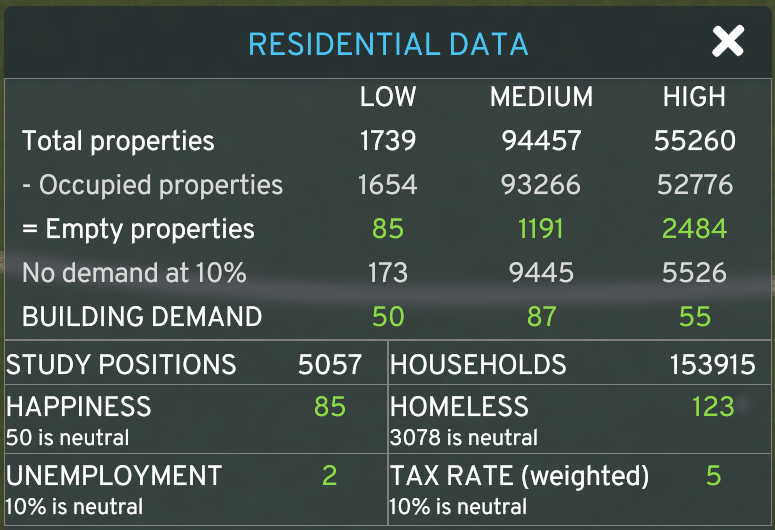
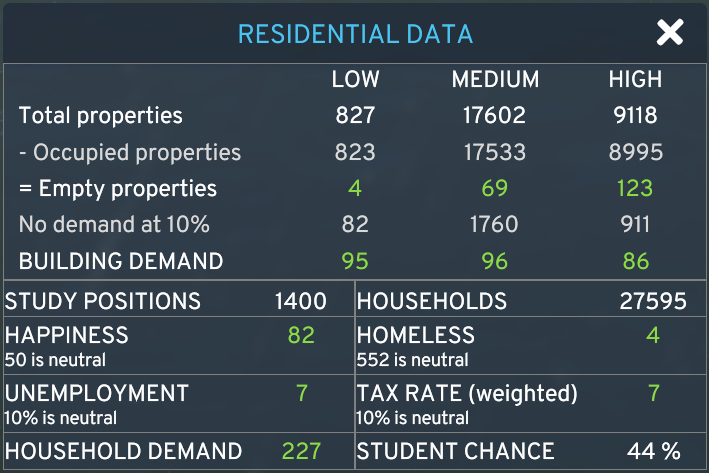
Residential household demand, and student chance

Changed region(s): [[0.0, 0.0, 1.0, 1.0]]

diff --git a/ui_src/residential.jsx b/ui_src/residential.jsx
@@ -136,7 +136,7 @@ const $Residential = ({ react }) => {
 	
 	const homelessThreshold = Math.round(residentialData[12] * residentialData[13] / 1000);
 
-	return <$Panel react={react} title="Residential Data" onClose={onClose} initialSize={{ width: window.innerWidth * 0.2, height: window.innerHeight * 0.243 }} initialPosition={{ top: window.innerHeight * 0.05, left: window.innerWidth * 0.005 }}>	
+	return <$Panel react={react} title="Residential Data" onClose={onClose} initialSize={{ width: window.innerWidth * 0.22, height: window.innerHeight * 0.26 }} initialPosition={{ top: window.innerHeight * 0.05, left: window.innerWidth * 0.005 }}>	
 		{residentialData.length === 0 ? (
 			<p>Waiting...</p>
 		) : (
@@ -151,6 +151,8 @@ const $Residential = ({ react }) => {
 					<RowWithThreeColumns left="HAPPINESS" leftSmall={`${residentialData[8]} is neutral`} right1={residentialData[7]} flag1={residentialData[7]<residentialData[8]} />
 					<DataDivider />
 					<RowWithThreeColumns left="UNEMPLOYMENT" leftSmall={`${residentialData[10]/10}% is neutral`} right1={residentialData[9]} flag1={residentialData[9]>residentialData[10]/10} />
+					<DataDivider />
+					<RowWithThreeColumns left="HOUSEHOLD DEMAND" right1={residentialData[16]} flag1={residentialData[16]<0} />
 					<div class="space_uKL" style={{height: '3rem'}}></div>
 				</div>
 				<div style={{width: '50%', boxSizing: 'border-box', border: '1px solid gray'}}>
@@ -160,6 +162,8 @@ const $Residential = ({ react }) => {
 					<RowWithThreeColumns left="HOMELESS" leftSmall={`${homelessThreshold} is neutral`} right1={residentialData[11]} flag1={residentialData[11]>homelessThreshold} />
 					<DataDivider />
 					<RowWithThreeColumns left="TAX RATE (weighted)" leftSmall="10% is neutral" right1={residentialData[15]/10} flag1={residentialData[15]>100} />
+					<DataDivider />
+					<RowWithTwoColumns left="STUDENT CHANCE" right={`${residentialData[17]} %`} />
 					<div class="space_uKL" style={{height: '3rem'}}></div>
 				</div>
 			</div>

diff --git a/Systems/ResidentialDemandUISystem.cs b/Systems/ResidentialDemandUISystem.cs
@@ -156,6 +156,7 @@ public class ResidentialDemandUISystem : UISystemBase
             float num9 = math.min(math.sqrt(2f * (float)value), -1f + math.min(2.5f, math.sqrt((float)value / 300f)) + 0.5f * (num6 + num8 + num7 + num5));
             float y = num8 + num6 + num7 + num5;
             m_HouseholdDemand.value = math.min(100, math.max(0, Mathf.RoundToInt(math.max(num9, y))));
+            m_Results[16] = Mathf.RoundToInt(math.max(num9, y)); // 220204 household demand
             m_LowDemandFactors[7] = Mathf.RoundToInt(num6);
             m_LowDemandFactors[8] = Mathf.RoundToInt(num7);
             m_LowDemandFactors[6] = Mathf.RoundToInt(num8);
@@ -265,9 +266,13 @@ public class ResidentialDemandUISystem : UISystemBase
             //float mr6 = (float)m_Results[6] / 10f;
             //Plugin.Log($"FREE  : L {m_Results[0]-m_Results[3]} M {m_Results[1] - m_Results[4]} H {m_Results[2] - m_Results[5]} ratio {mr6:F1}% ");
             //Plugin.Log($"DEMAND: L {(1f - (m_Results[0] - m_Results[3]) / (0.01f * mr6 * (float)math.max(1,m_Results[0]))) * 100f:F0} " +
-                               //$"M {(1f - (m_Results[1] - m_Results[4]) / (0.01f * mr6 * (float)math.max(1,m_Results[1]))) * 100f:F0} " +
-                               //$"H {(1f - (m_Results[2] - m_Results[5]) / (0.01f * mr6 * (float)math.max(1,m_Results[2]))) * 100f:F0}");
+            //$"M {(1f - (m_Results[1] - m_Results[4]) / (0.01f * mr6 * (float)math.max(1,m_Results[1]))) * 100f:F0} " +
+            //$"H {(1f - (m_Results[2] - m_Results[5]) / (0.01f * mr6 * (float)math.max(1,m_Results[2]))) * 100f:F0}");
             //Plugin.Log($"OTHER: hap {m_Results[7]}/{m_Results[8]} unem {m_Results[9]}/{m_Results[10]} hless {m_Results[11]}/{m_Results[12]}/{m_Results[13]}");
+            // 240204 student ratio for new households, from HouseholdSpawnSystem
+            int fact6 = math.max(0, m_LowDemandFactors[6] + m_MediumDemandFactors[6] + m_HighDemandFactors[6]); // unemployment
+            int fact12 = math.max(0, m_LowDemandFactors[12] + m_MediumDemandFactors[12] + m_HighDemandFactors[12]); // students
+            m_Results[17] = Mathf.RoundToInt(100f * (float)fact12 / (float)(fact12 + fact6));
         }
     }
 
@@ -439,7 +444,7 @@ public class ResidentialDemandUISystem : UISystemBase
 
         // InfoLoom
         SetDefaults(); // there is no serialization, so init just for safety
-        m_Results = new NativeArray<int>(16, Allocator.Persistent);
+        m_Results = new NativeArray<int>(18, Allocator.Persistent);
 
         AddBinding(m_uiResults = new RawValueBinding(kGroup, "ilResidential", delegate (IJsonWriter binder)
         {
